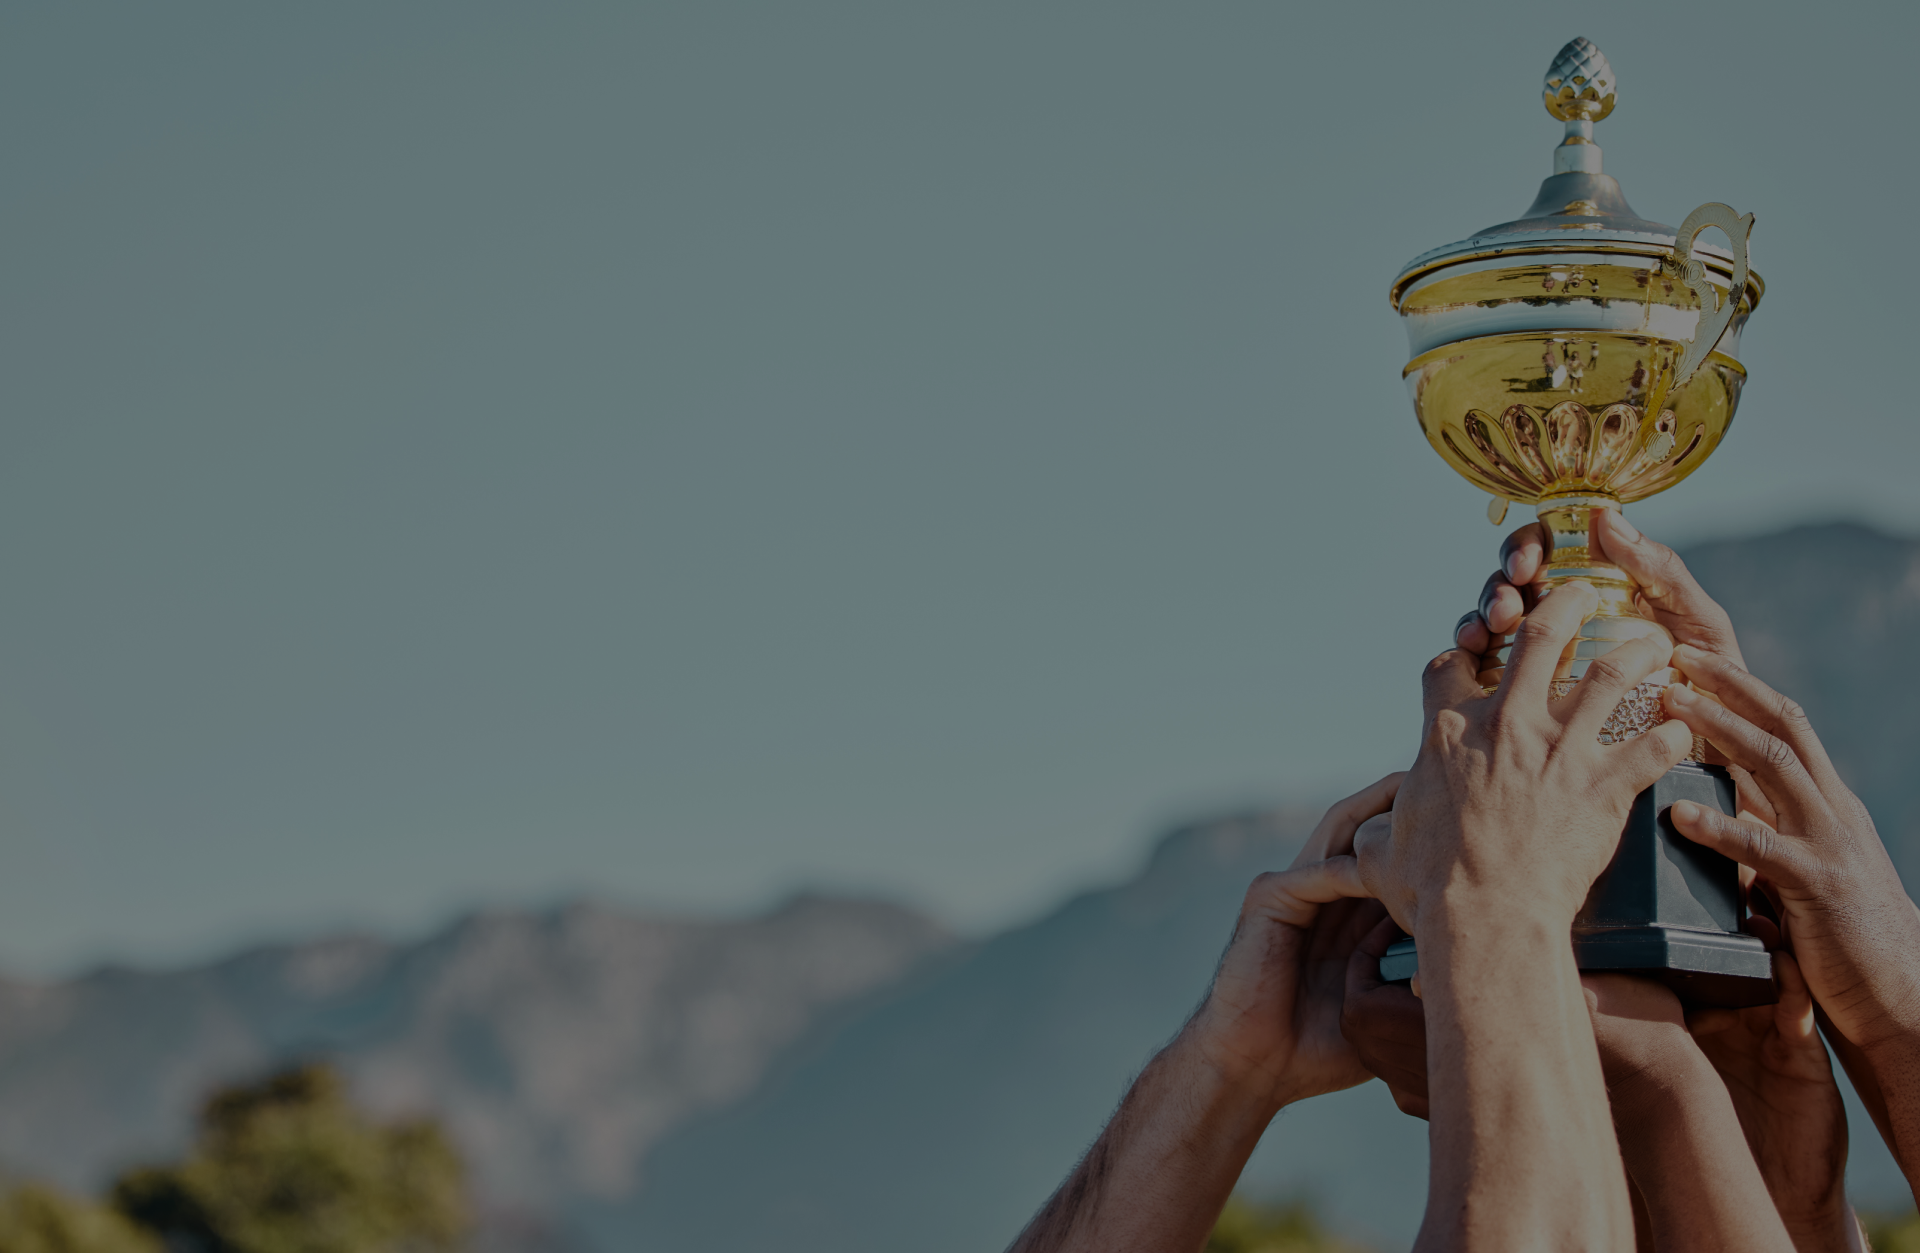
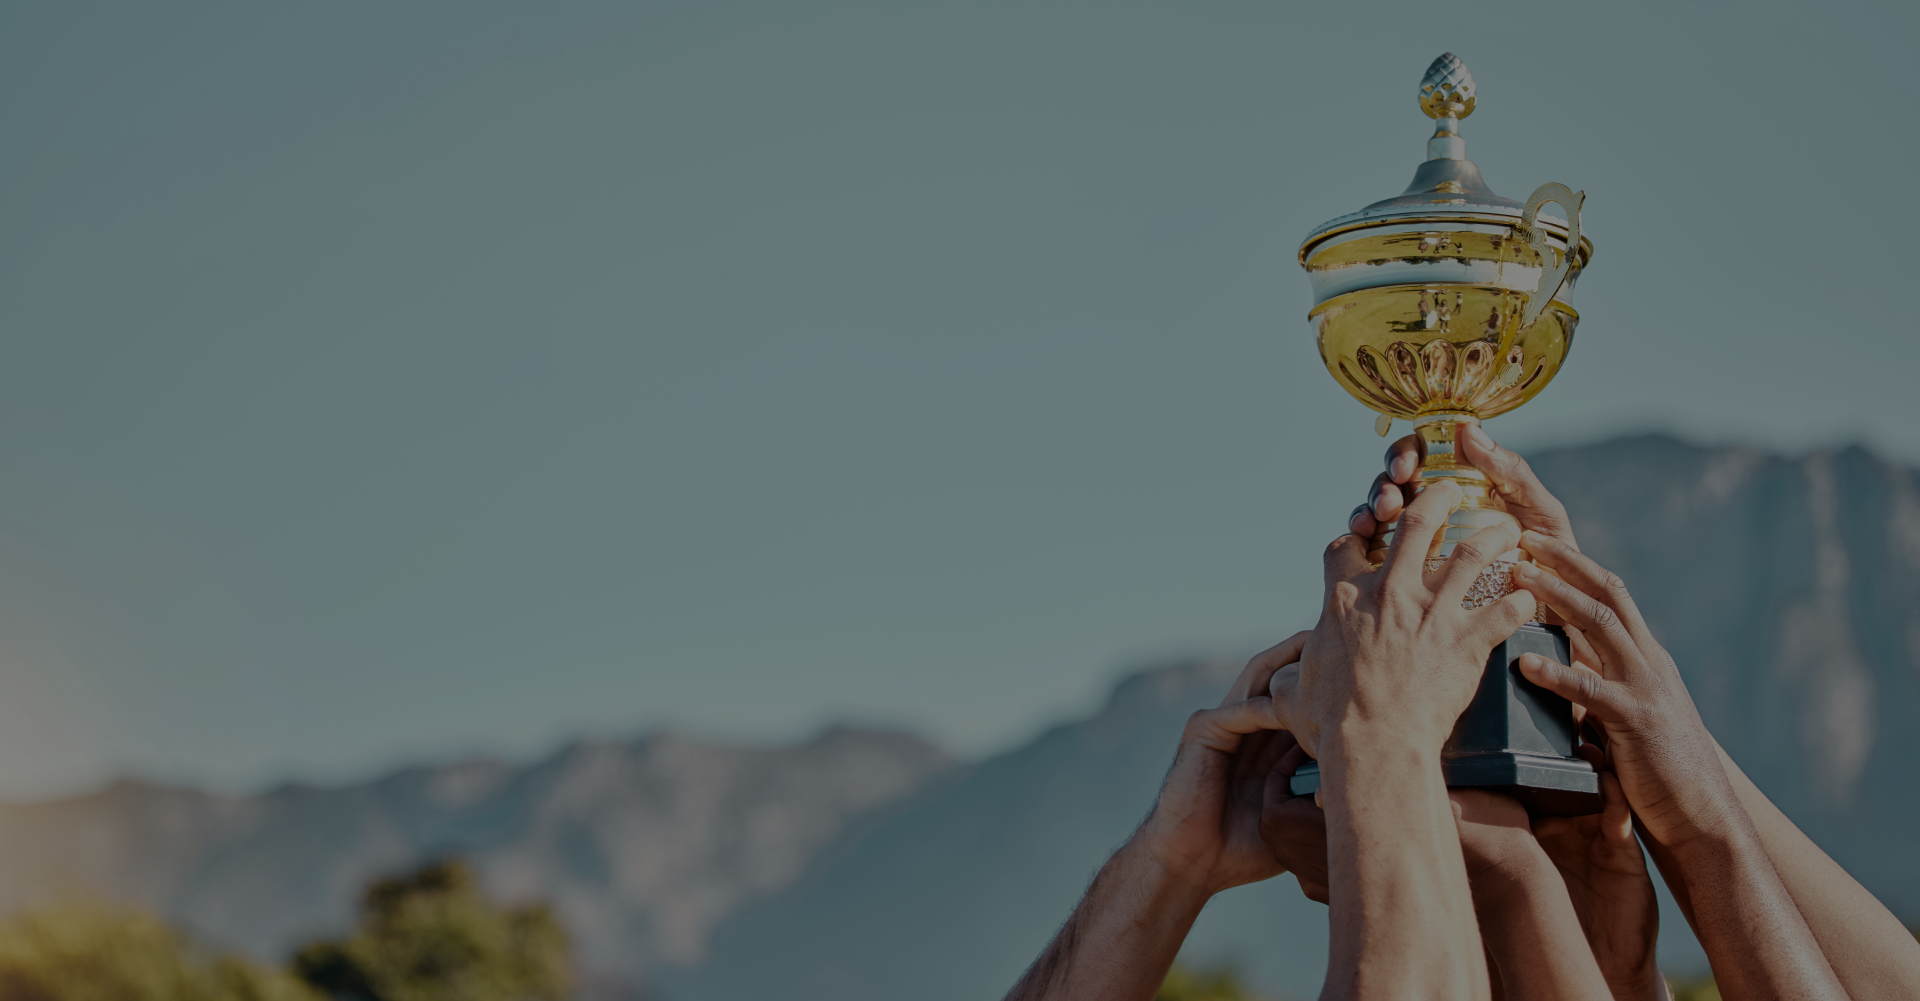
index.html 박스 크기 잡는중

diff --git a/index.html b/index.html
@@ -43,16 +43,16 @@
 				<!-- Banner -->
 					<section id="banner">
 						<div class="inner">
-							<h2>우리는 스포츠 산업에 <br>	
-								혁신이라는 한 획을 그을 <br>	
-								<span class="accent">스포노베이션</span>입니다
-							</h2>
-							<p>
-								SPONOVATION은 스포츠 광고 & 섭외 거래 시스템 개발을 시작으로
-								전반적인 스포츠 산업을 혁신하기 위한 프로젝트를 진행하며 다양한 스포츠 서비스와 솔루션을 제공합니다.
-								<br><br>
-								스포츠를 즐기는 모든 사람들이 스포츠를 통해 가치를 실현할 수 있는 문화를 만들기 위해 끊임없이 노력하겠습니다.
-							</p>
+								<h2>우리는 스포츠 산업에 <br>	
+									혁신이라는 한 획을 그을 <br>	
+									<span class="accent">스포노베이션</span>입니다
+								</h2>
+								<p>
+									SPONOVATION은 스포츠 광고 & 섭외 거래 시스템 개발을 시작으로<br>
+									전반적인 스포츠 산업을 혁신하기 위한 프로젝트를 진행하며 다양한 스포츠 서비스와 솔루션을 제공합니다.
+									<br><br>
+									스포츠를 즐기는 모든 사람들이 스포츠를 통해 가치를 실현할 수 있는 문화를 만들기 위해 끊임없이 노력하겠습니다.
+								</p>
 						</div>
 					</section>
 

diff --git a/assets/css/main.css b/assets/css/main.css
@@ -2784,12 +2784,11 @@ body.is-menu-visible #menu .inner {
 }
 
 /* Banner */
-#banner {
-  padding: 10em 0 4.75em 0;
-}
 #banner .inner {
   margin: 0 auto;
   width: 55em;
+  padding: 0px 21px;
+  max-width: 1464px;
 }
 #banner .logo {
   -moz-transition: opacity 2s ease, -moz-transform 1s ease;
@@ -2992,8 +2991,12 @@ body.is-preload #banner p {
   }
 }
 
-.wrapper {
+.wrapper.linear {
   background: linear-gradient(180deg, #FFF 0%, #ECF6FF 77.5%);
+}
+
+.wrapper {
+  background-color: #2e3141;
   position: relative;
 }
 .wrapper.alt:before {

diff --git a/assets/sass/layout/_banner.scss b/assets/sass/layout/_banner.scss
@@ -7,11 +7,14 @@
 /* Banner */
 
 	#banner {
-		@include padding(10em, 0, (0, 0, _size(wrapper-edges, large) * -0.5, 0));
+		// @include padding(10em, 0, (0, 0, _size(wrapper-edges, large) * -0.5, 0));
+
 
 		.inner {
 			margin: 0 auto;
 			width: _size(inner);
+			padding: 0px 21px;
+			max-width: 1464px;
 		}
 
 		.logo {

diff --git a/platform.html b/platform.html
@@ -59,7 +59,7 @@
 			</header>
 
 			<!-- Content -->
-			<div class="wrapper">
+			<div class="wrapper linear">
 				<div class="inner">
 					<section>
 						<h3><span>스폰밸리,</span> 이런 서비스를 제공합니다.</h3>

diff --git a/assets/sass/layout/_wrapper.scss b/assets/sass/layout/_wrapper.scss
@@ -105,8 +105,12 @@
 		}
 	}
 
-	.wrapper {
+	.wrapper.linear {
 		background: linear-gradient(180deg, #FFF 0%, #ECF6FF 77.5%);
+	}
+
+	.wrapper {
+		background-color: _palette(bg);
 		position: relative;
 
 		&.alt {
